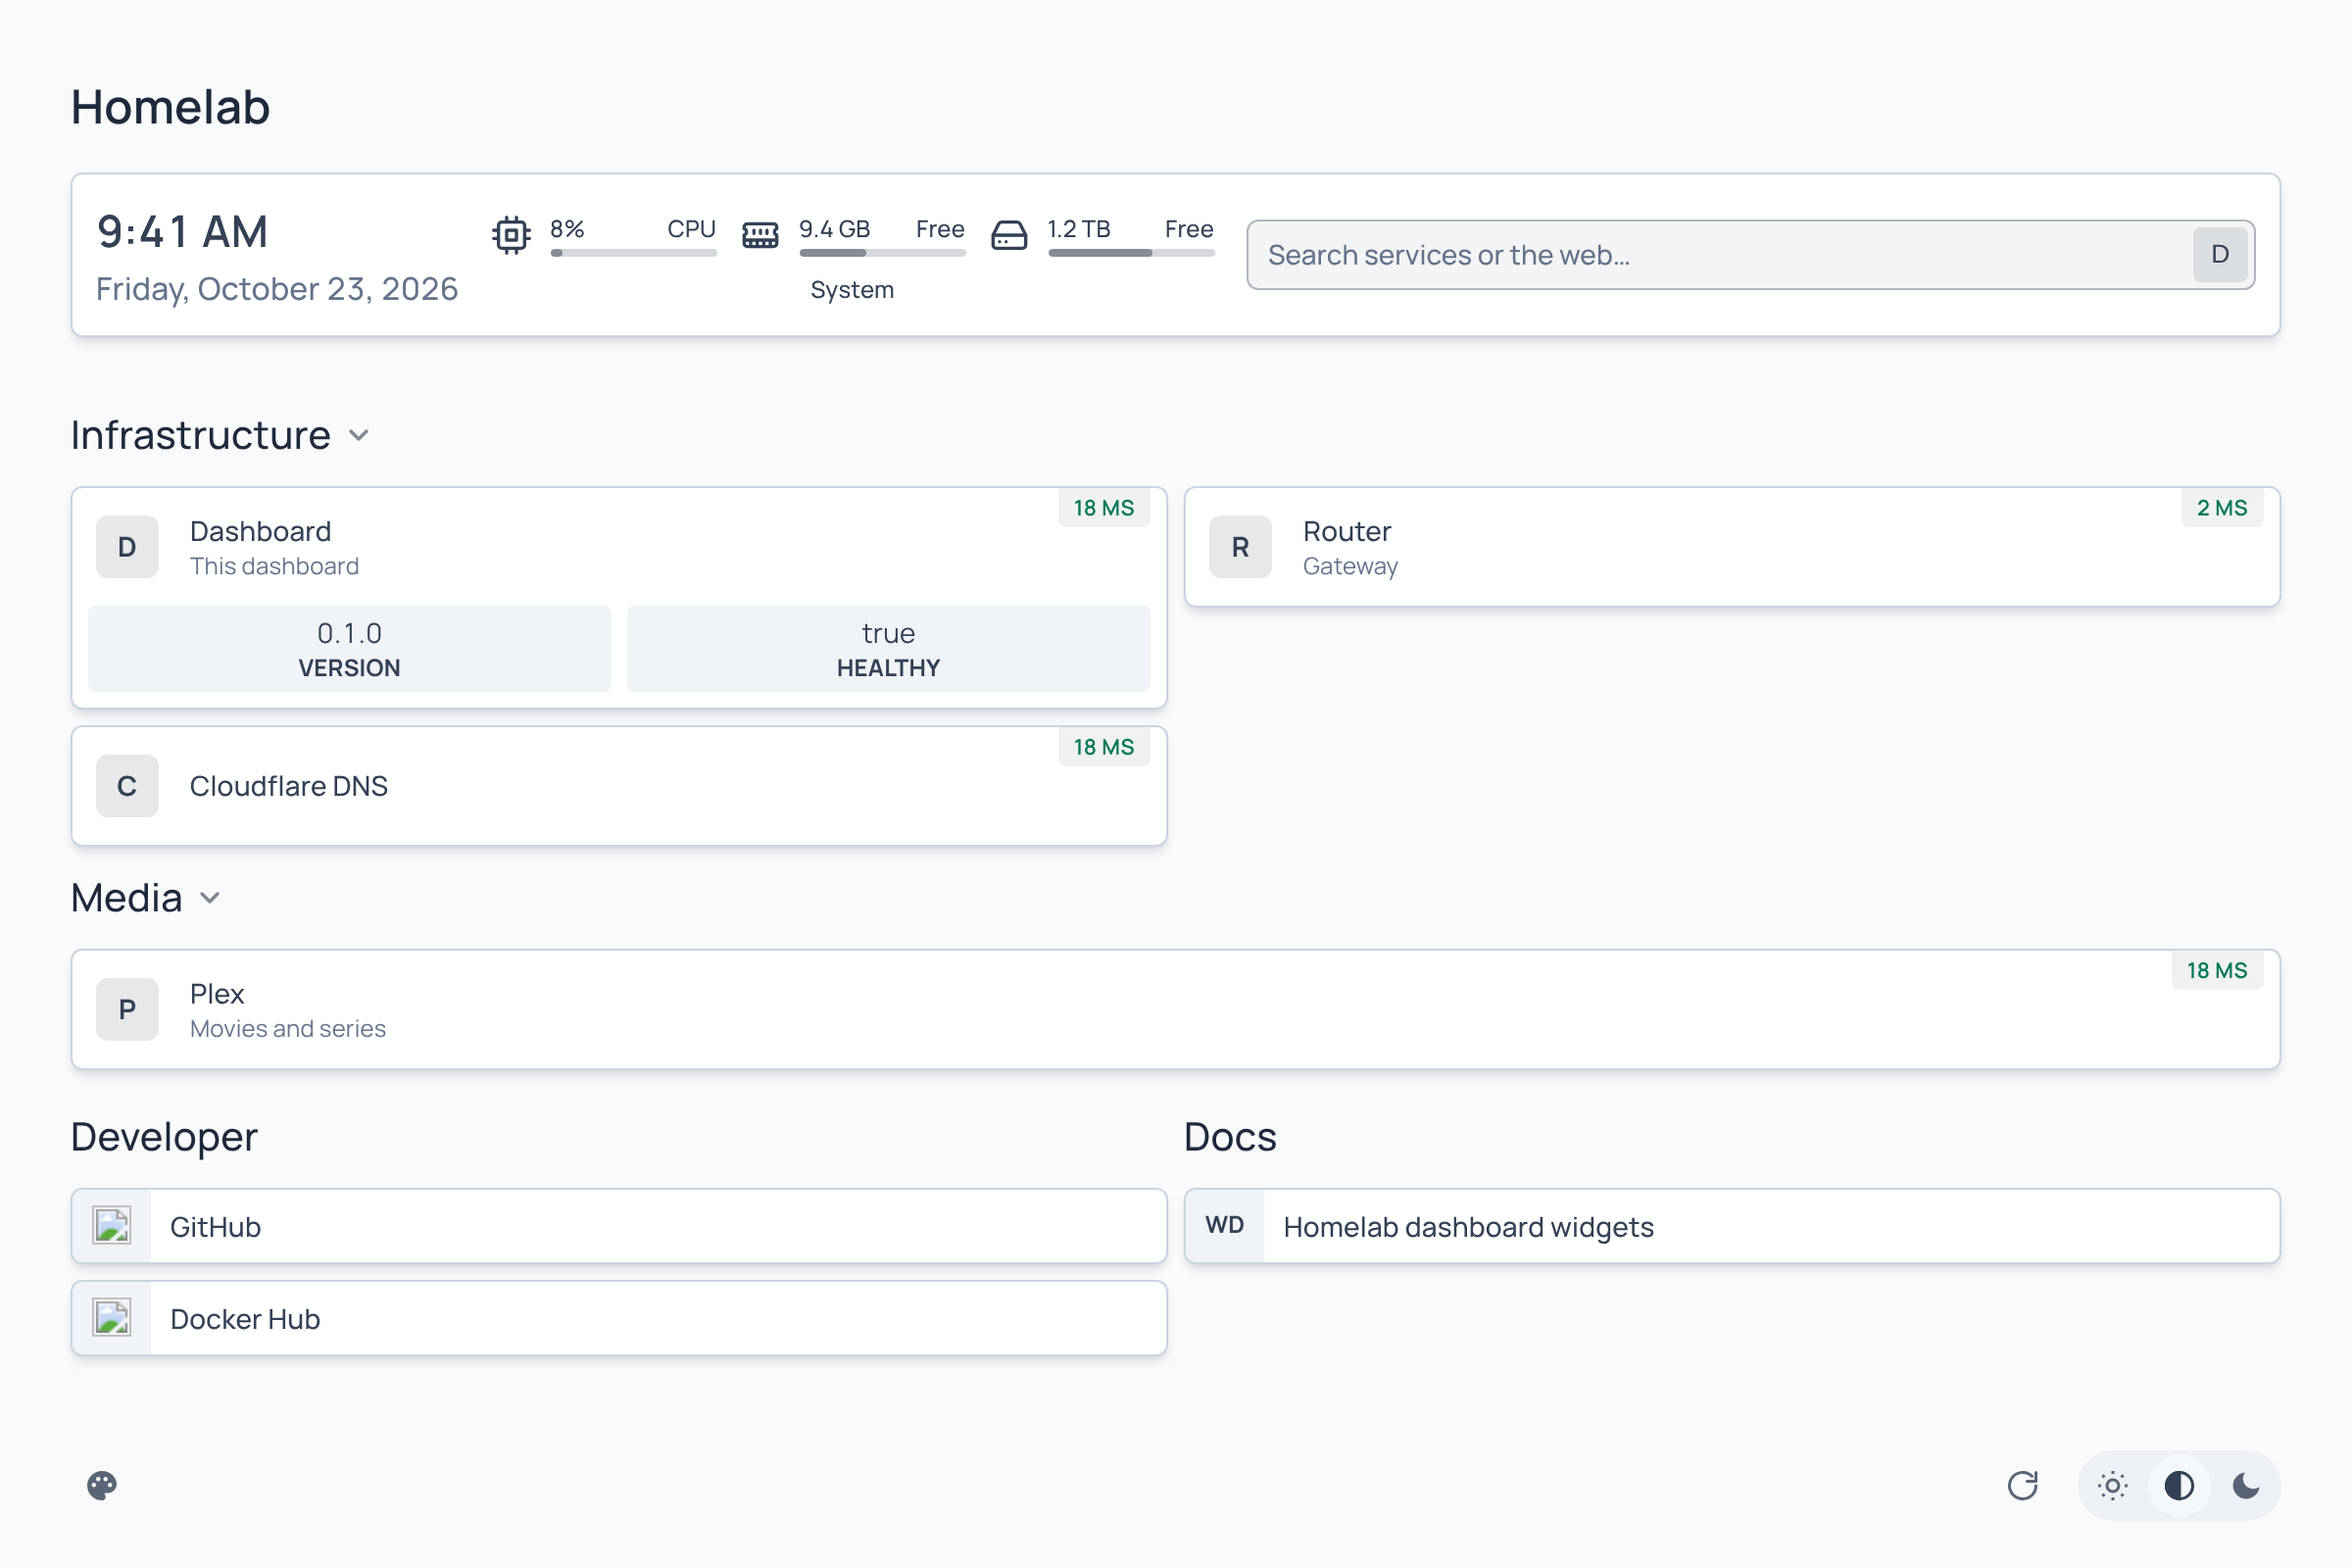
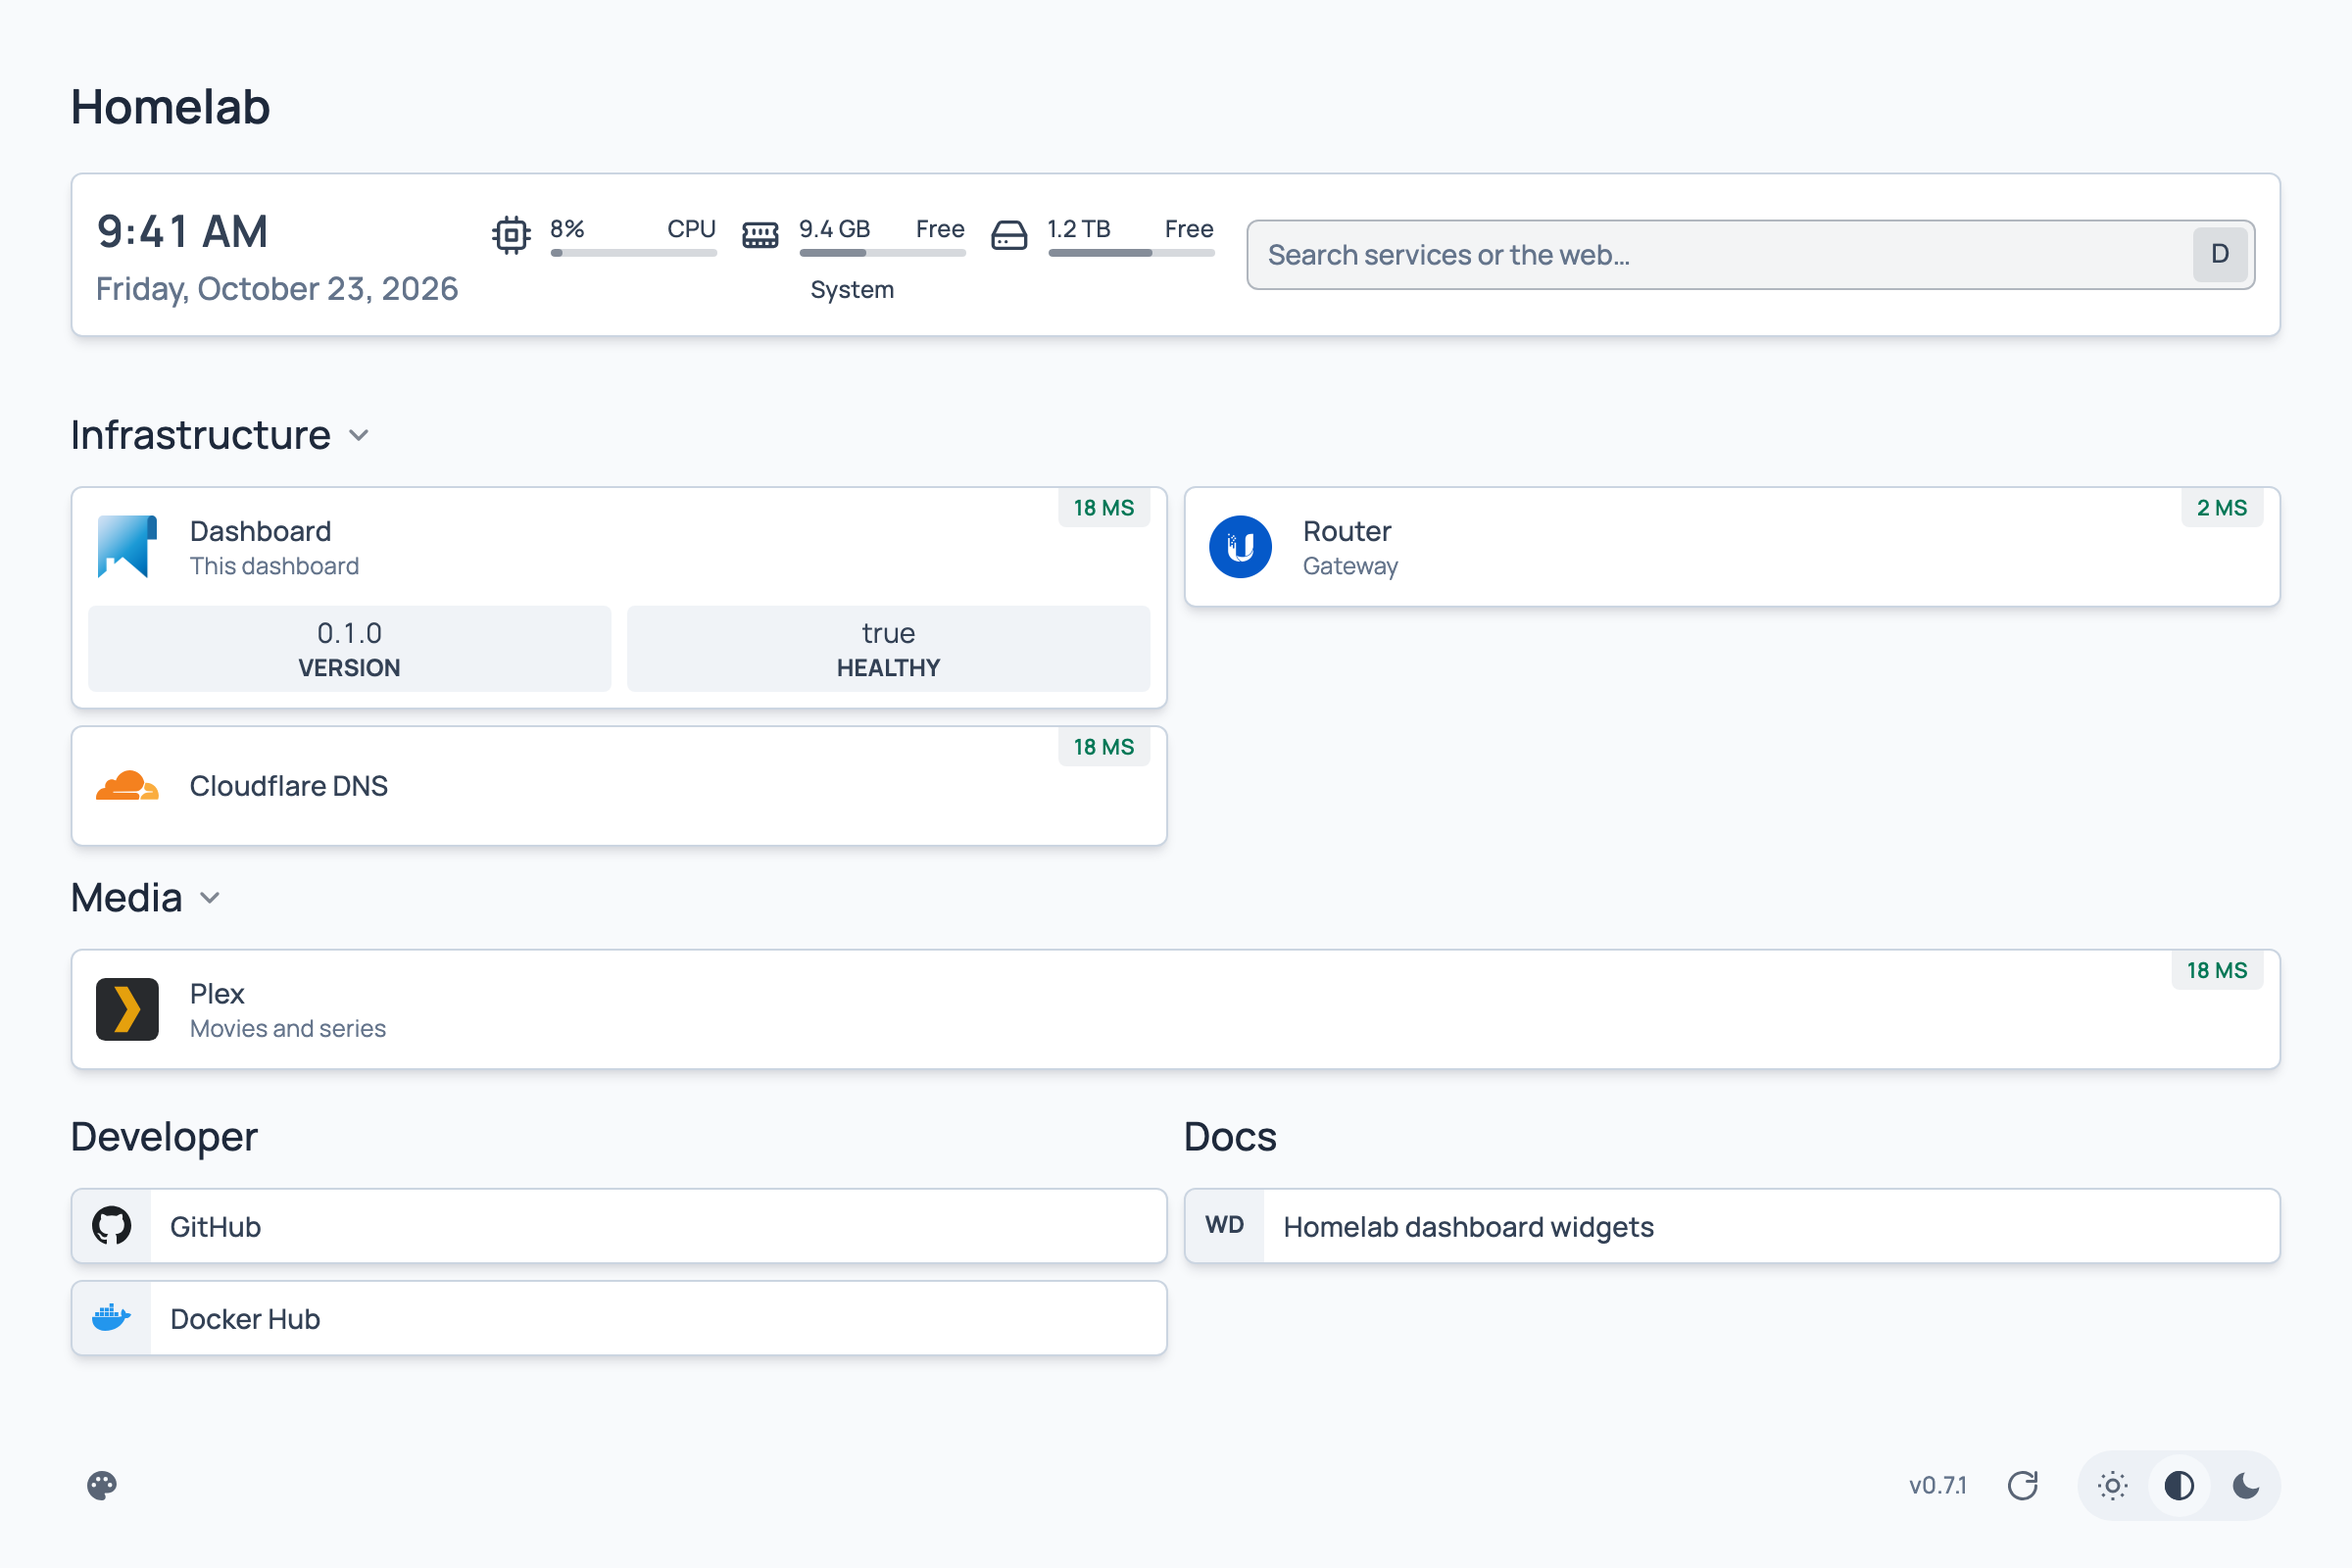
Release 0.7.2: the version is shown by default
hideVersion: true hides it now, as in homepage; the daily update check runs
only while it is shown (disableUpdateCheck turns it off). Test apps pass
releasesUrl: null so they never ask GitHub. The screenshot script loads the
collection's widgets (it showed only unknown types since the move) and the
README screenshots are refreshed.

diff --git a/src/update.js b/src/update.js
@@ -1,6 +1,6 @@
-// The update check behind `hideVersion: false`: once a day the newest GitHub release, so the
-// footer can say when a newer version is out. Off unless the version is shown, and with
-// disableUpdateCheck. A failed check is logged and tried again the next day.
+// The update check next to the version in the footer: once a day the newest GitHub release, so
+// the footer can say when a newer version is out. Off with hideVersion: true or
+// disableUpdateCheck, and without a url (tests). A failed check is logged and tried again the next day.
 
 export const RELEASES_URL = 'https://api.github.com/repos/stefanrenne/homelab-dashboard/releases/latest';
 export const CHECK_EVERY_MS = 24 * 60 * 60 * 1000;
@@ -25,7 +25,7 @@ export class UpdateCheck {
 
   /** Starts (or keeps) the daily check; the first one runs right away. */
   start() {
-    if (this.timer) return;
+    if (this.timer || !this.url) return;
     this.timer = setInterval(() => this.check(), this.everyMs);
     this.timer.unref?.();
     return this.check();

diff --git a/src/app.js b/src/app.js
@@ -114,8 +114,8 @@ export async function createApp({
     runtime.setInstances(instances, state.registry);
     state.actions = actions;
     state.frames = frames;
-    // hideVersion: false shows the version (homepage shows it by default; this dashboard does not)
-    const showVersion = state.config.settings.hideVersion === false;
+    // the version is shown unless hideVersion: true, as in homepage
+    const showVersion = state.config.settings.hideVersion !== true;
     if (showVersion && !state.config.settings.disableUpdateCheck) updates.start();
     else updates.stop();
     const latest = showVersion && !state.config.settings.disableUpdateCheck ? updates.latest : null;

diff --git a/public/index.html b/public/index.html
@@ -1090,7 +1090,7 @@ function placeBookmarkGroups() {
 }
 
 /**
- * hideVersion: false shows the version in the footer, with a link when a newer release is out,
+ * The version in the footer (unless hideVersion: true), with a link when a newer release is out,
  * and the installed plugins (the widgets collection, ...) with theirs.
  */
 function renderVersion(data) {

diff --git a/docs/configuration.md b/docs/configuration.md
@@ -138,10 +138,10 @@ providers:          # shared keys and logins; a widget entry uses one with provi
     username: admin
     password: "{{HD_VAR_LONGHORN_PASSWORD}}"
 instanceName: internal   # for discovery labels meant for one dashboard (homelab.instance.internal.href)
-hideVersion: false  # show the version in the footer, and each plugin's (the widgets collection, ...)
-                    # (hidden by default, unlike homepage)
+hideVersion: true   # hide the version in the footer, and each plugin's (the widgets collection, ...);
+                    # shown by default, as in homepage
 pluginUpdateInterval: 1h   # how often #latest and branch plugins are checked for a newer version (false: never)
-disableUpdateCheck: true   # with the version shown: do not ask GitHub once a day for a newer release
+disableUpdateCheck: true   # do not ask GitHub once a day for a newer release (only asked while the version is shown)
 disableIndexing: true      # ask search engines not to index the page (robots.txt and a robots meta tag)
 base: https://lab.example.com/dashboard/   # behind a reverse proxy under a sub path: the page's address
 logpath: /config    # also log to <logpath>/logs/homelab-dashboard.log, rotated at 10 MiB, five files kept;
@@ -502,6 +502,13 @@ service homepage supports (radarr, sonarr, Unraid, Portainer, ...).
 
 Changes to these formats stay backward compatible (hard rule 6). Each renamed or changed key is
 listed here with the version, what the old form becomes, and the test that covers it.
+
+### 0.7.2: the version is shown by default
+
+The footer shows the version unless `hideVersion: true` (before: only with `hideVersion: false`,
+which keeps working and changes nothing now). With the version shown the dashboard asks GitHub
+once a day for a newer release; add `disableUpdateCheck: true` to keep it from doing so. Covered by
+`tests/app.test.mjs` (the version is shown and checked for updates by default).
 
 ### 0.6.0: the built-in widgets moved to the widgets collection
 

diff --git a/docs/decisions.md b/docs/decisions.md
@@ -74,11 +74,13 @@ homepage writes a log file into the config folder by default. Hard rule 5 keeps 
 the user's files, so here the log goes to stdout (docker logs) unless `logpath` asks for a file;
 then the rotation is homepage's (10 MiB, five files) and `LOG_TARGETS` works the same.
 
-## The version is hidden unless asked for (2026-10-24)
-homepage shows its version and checks GitHub for updates by default. The HIG audit took the
-version out of the footer (it is noise for the people using the page), so here `hideVersion:
-false` turns both on. The check runs once a day only while the version is shown, and never with
-`disableUpdateCheck`, so a default install makes no calls to GitHub.
+## The version is shown by default, as in homepage (2026-10-25)
+At first the version was hidden unless `hideVersion: false` (2026-10-24: the HIG audit called it
+noise for the people using the page). Since every widget comes from the widgets collection, the
+footer also tells which collection release runs, which matters when something looks off; so
+the version is shown again by default, as in homepage, and `hideVersion: true` hides it. The
+update check (once a day, GitHub's newest release) runs only while the version is shown, and
+never with `disableUpdateCheck`.
 
 ## A mounted Docker socket works without a proxy (2026-10-24)
 Mounting `/var/run/docker.sock` is what people try first, and it used to fail with EACCES

diff --git a/README.md b/README.md
@@ -5,7 +5,7 @@ A self-hosted start page for your homelab, configured in YAML, in the spirit of
 (a git repository, an npm package or a folder) and pull in with one line of YAML. Nobody has to
 get a pull request merged here first.
 
-![The dashboard in dark mode: groups of service cards with status labels in the corner and widget values, header with clock, resource meters and search](docs/images/screenshot-dark.png)
+![The dashboard in dark mode: groups of service cards with status labels in the corner and widget values, header with clock, resource meters and search, the version in the footer](docs/images/screenshot-dark.png)
 
 <details><summary>Light mode</summary>
 

diff --git a/CHANGELOG.md b/CHANGELOG.md
@@ -4,6 +4,15 @@ All user-visible changes. The format follows [Keep a Changelog](https://keepacha
 
 ## [Unreleased]
 
+## [0.7.2] - 2026-10-25
+
+### Changed
+- The version (and each plugin's) is shown in the footer by default, as in homepage;
+  `hideVersion: true` hides it. With the version shown the dashboard asks GitHub once a day for
+  a newer release; `disableUpdateCheck: true` turns that off.
+- The image of a release commit names itself after the release (`0.7.2`), also as `latest`,
+  instead of `main-<sha>`.
+
 ## [0.7.1] - 2026-10-25
 
 ### Changed
